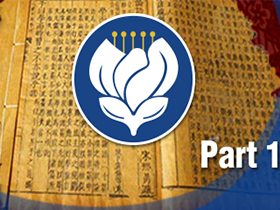
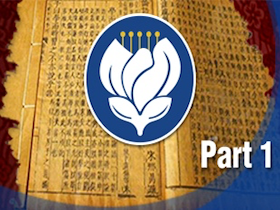
adding chinese course bg images

diff --git a/interests/index.html b/interests/index.html
@@ -118,7 +118,7 @@
       </li>
 
       <li class="course">
-        <img class="course-bg-img" src="../images/chinese_thought_1.png">
+        <img class="course-bg-img" src="../images/chinese_thought_2.png">
         <img class="course-cert-img" src="../images/cert_spark_ml.png">
         <div class="course-name">
           <p class="course-name-text">Chinese Thought II</p>
